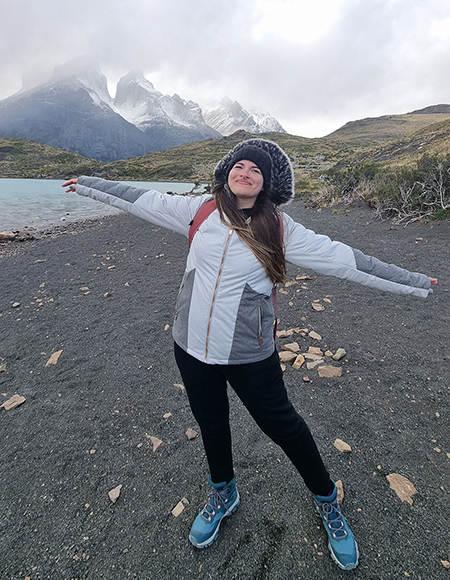
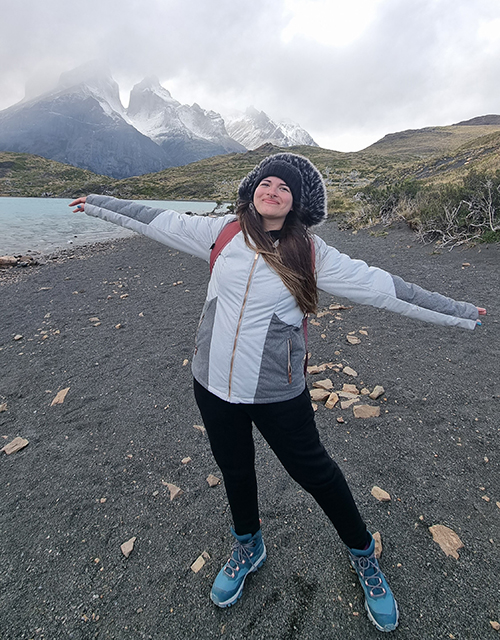
actualizacion sobre mi

diff --git a/sobremi.html b/sobremi.html
@@ -5,7 +5,7 @@
     <meta charset="utf-8" />
     <title>/ Natalia oviedo/ sobre mi </title>
     <link href="style.css" rel="stylesheet" type="text/css">
-    <link rel="icon" href="img/iconos/favicon/corazon.ico"  type="image/x-icon">
+    <link rel="icon" href="img/iconos/favicon/corazon.ico" type="image/x-icon">
 </head>
 
 <body>
@@ -25,15 +25,15 @@
     </header>
     <main>
         <section id="mipresentacion">
-            <div class="nombre">
-                <h2>*/Natalia Oviedo</h2>
+            <div class="avion-2">
                 <img src="./img/ilustraciones-todas/ilustracion-avion.png" alt="ilustracion de avión" width="350px"
                     height="150px">
             </div>
             <div class="mipresentacion">
-                <img src="./img/sobremi/fotos/torresdelpaine.jpg" alt="foto en torres del paine, Chile" width="450px"
-                    height="580px">
+                <img src="./img/sobremi/fotos/torresdelpaine.jpg" alt="foto en torres del paine, Chile" width="500px"
+                    height="640px">
                 <article class="presentacion">
+                    <h2>*/Natalia Oviedo</h2>
                     <h3>Diseñadora gráfica Jr.</h3>
                     <p>Hola! soy Natii, estudiante de Diseño y Comunicación Visual en la Universidad Nacional de Lanús,
                         en Buenos Aires. Actualmente estoy cursando el cuarto año. Me apasiona el diseño,
@@ -57,14 +57,22 @@
                     allow="autoplay; clipboard-write; encrypted-media; fullscreen; picture-in-picture"
                     loading="lazy"></iframe>
             </div>
-            <ul>
-                <li><img src="./img/iconos/corazon3.png" alt=" Logo Creo" width="30px" height="32px">creo</li>
-                <li>pienso</li>
-                <li>viajo</li>
+            <div>
+            <ul class="intereses-giff">
+                <li><img src="./img/iconos/corazon-sobremi.png" alt=" Logo Creo" width="22px" height="19px">
+                    <p class="titulo-giff">creo</p>
+                </li>
+                <li><img src="./img/iconos/corazon-sobremi.png" alt=" Logo Creo" width="22px" height="19px">
+                    <p class="titulo-giff">pienso</p>
+                </li>
+                <li><img src="./img/iconos/corazon-sobremi.png" alt=" Logo Creo" width="22px" height="19px">
+                    <p class="titulo-giff">viajo</p>
+                </li>
             </ul>
-            <img src="./img/sobremi/giff/ilustracion.gif" class="gif" alt="animacion de lineas" width="1920" height="430">
+            <img src="./img/sobremi/giff/ilustracion.gif" class="gif" alt="animacion de lineas" width="1920 height=">
+        </div>
         </section>
-        <section class="informacion-personal"> <!---ver si este div es necesario--->
+        <section class="informacion-personal">
             <div class="grid-item uno">
                 <a href="#botonera" class="volver-arriba"><img src="./img/iconos/button.png" alt="volver-arriba"
                         width="60px" height="60px"></a>
@@ -92,13 +100,17 @@
             <div class="grid-item cuatro">
                 <h3>*/ Habilidades</h3>
                 <ul class="info-lista2">
-                    <li><img src="./img/sobremi/logos-habilidades/ilustrador.png" alt=" Logo Ilustrator" width="60px" height="60px">
+                    <li><img src="./img/sobremi/logos-habilidades/ilustrador.png" alt=" Logo Ilustrator" width="60px"
+                            height="60px">
                     </li>
-                    <li><img src="./img/sobremi/logos-habilidades/photoshop.png" alt=" Logo Photoshop" width="60px" height="60px">
+                    <li><img src="./img/sobremi/logos-habilidades/photoshop.png" alt=" Logo Photoshop" width="60px"
+                            height="60px">
                     </li>
-                    <li><img src="./img/sobremi/logos-habilidades/indesign.png" alt=" Logo Indesigne" width="60px" height="60px">
+                    <li><img src="./img/sobremi/logos-habilidades/indesign.png" alt=" Logo Indesigne" width="60px"
+                            height="60px">
                     </li>
-                    <li><img src="./img/sobremi/logos-habilidades/figma.png" alt="Logo Figma" width="60px" height="60px"></li>
+                    <li><img src="./img/sobremi/logos-habilidades/figma.png" alt="Logo Figma" width="60px"
+                            height="60px"></li>
                 </ul>
             </div>
         </section>
@@ -115,14 +127,15 @@
         <div class="mensaje">
             <div class="mje">
                 <a href="https://www.linkedin.com/in/natalia-oviedo-7906b7275/" target="_blank">
-                    <img class="icon" src="img/logos footer/linkedin.png" alt="instagram logo" width="50px" height="50px">
+                    <img class="icon" src="img/logos footer/linkedin.png" alt="instagram logo" width="50px"
+                        height="50px">
                     <h4>Linkedin</h4>
                 </a>
             </div>
             <div class="mje">
                 <a
                     href="mailto:natiioviedo92@gmail.com?subject=Hola%20Natalia&body=Hola%20Natalia,%0AVi%20tu%20trabajo%20y%20me%20gustaría%20saber%20más.%0A¡Hablemos!">
-                    <img src="./img/logos footer/gmail.png" alt="gmail logo"  width="50px" height="50px">
+                    <img src="./img/logos footer/gmail.png" alt="gmail logo" width="50px" height="50px">
                     <h4>natiioviedo92@gmail.com</h4>
                 </a>
             </div>

diff --git a/style.css b/style.css
@@ -293,7 +293,7 @@ h3 {
 
 .brillo-2 {
     top: 46%;
-    left:76%;
+    left: 76%;
     transform: translate(-50%, -50%);
     position: relative;
 }
@@ -396,21 +396,19 @@ h3 {
     height: 100vh;
     display: flex;
     flex-direction: column;
+    justify-content: space-around;
 }
 
 #mipresentacion h2 {
-    color: #B34F93;
     letter-spacing: 5px;
-    font-weight: 400;
-    margin: left 100px;
-
+    padding-bottom: 15px;
 }
 
-.nombre {
-    display: flex;
-    align-items: center;
-    padding: 25px 15px;
-    justify-content: space-around;
+.avion-2 {
+    position: absolute;
+    top: 212px;
+    left: 7px;
+    z-index: 10;
 }
 
 .presentacion {
@@ -433,9 +431,27 @@ h3 {
 }
 
 
+.presentacion h3 {
+    font-weight: 400;
+}
+
+.mipresentacion img {
+    border-radius: 30px;
+    border: 15px solid #B34F93;
+    transition: transform 0.3s ease;
+    position: relative;
+    z-index: 1;
+}
+
+.mipresentacion img :hover {
+    transform: scale(1.1);
+    /* Aumenta el tamaño de la imagen al 110% al pasar el mouse */
+}
+
 /******Section intereses*******/
 .intereses {
     padding: 95px 10px 95px 0px;
+    height: 100vh;
 }
 
 .hobbies {
@@ -448,24 +464,35 @@ h3 {
 
 .titulo-hobbies p {
     font-size: 32px;
-    font-style: normal;
     color: #B34F93;
     padding-top: 10px;
 }
 
-.intereses ul {
+.titulo-hobbies ul {
+    display: flex;
+}
+
+/******intereses-con giiff*****/
+.intereses-giff {
     display: flex;
     justify-content: space-around;
 }
 
-.intereses li {
+
+.titulo-giff {
+    line-height: 24px;
+    margin-top: 20px;
+    display: flex;
+    gap:12px;
     font-family: "neulis-cursive", sans-serif;
     font-size: 40px;
     color: #B34F93;
-    font-weight: 700;
-    letter-spacing: 3px;
-    line-height: 24px;
-    margin-top: 20px;
+}
+
+.intereses-giff li {
+    display: flex;
+    align-items: flex-end;
+    gap: 10px;
 }
 
 /*****************gifff**********************/
@@ -511,7 +538,8 @@ h3 {
 
 .negrita {
     font-weight: 700;
-    margin-top: 10px;
+    margin: 20px 0px 7px 0px;
+    font-size: 20px;
 }
 
 
@@ -847,7 +875,7 @@ textarea {
     font-weight: 300;
     font-style: normal;
     font-family: "neulis-cursive", sans-serif;
-    letter-spacing: 0,8 px;
+    letter-spacing: 0, 8 px;
 }
 
 
@@ -887,8 +915,10 @@ textarea {
     /* Borde superior */
     border-bottom: 45px solid #B34F93;
     /* Borde inferior más grande y de otro color */
-    transition: opacity 0.3s ease, border-color 0.3s ease; /* Suaviza la transición de opacidad y color del borde */
-    opacity: 0.9; /* Opacidad original */
+    transition: opacity 0.3s ease, border-color 0.3s ease;
+    /* Suaviza la transición de opacidad y color del borde */
+    opacity: 0.9;
+    /* Opacidad original */
 }
 
 
@@ -901,7 +931,8 @@ textarea {
     /* Borde superior */
     border-bottom: 45px solid #7F3565;
     color: var(--Rosi-clarito, #F7ECF5);
-    opacity: 1; /* Cambia la opacidad a 70% al hacer hover */
+    opacity: 1;
+    /* Cambia la opacidad a 70% al hacer hover */
 
 }
 
@@ -1005,7 +1036,7 @@ button:hover {
 }
 
 @media (max-width: 768px) {
-    .nombre {
+    .avion-2 {
         display: block;
         text-align: center;
     }

diff --git a/index.html b/index.html
@@ -10,7 +10,7 @@
 
 <body>
     <header>
-        <nav id="botonera">
+        <nav id="botonera"> <!---Aime no encontre la carrreccion que me indicaste de la botonera :( --->
             <div class="logo">
                 <a href="index.html">
                     <img src="./img/iconos/SVG/corazon.svg" alt="animacion corazón" width="60px" height="52px">
